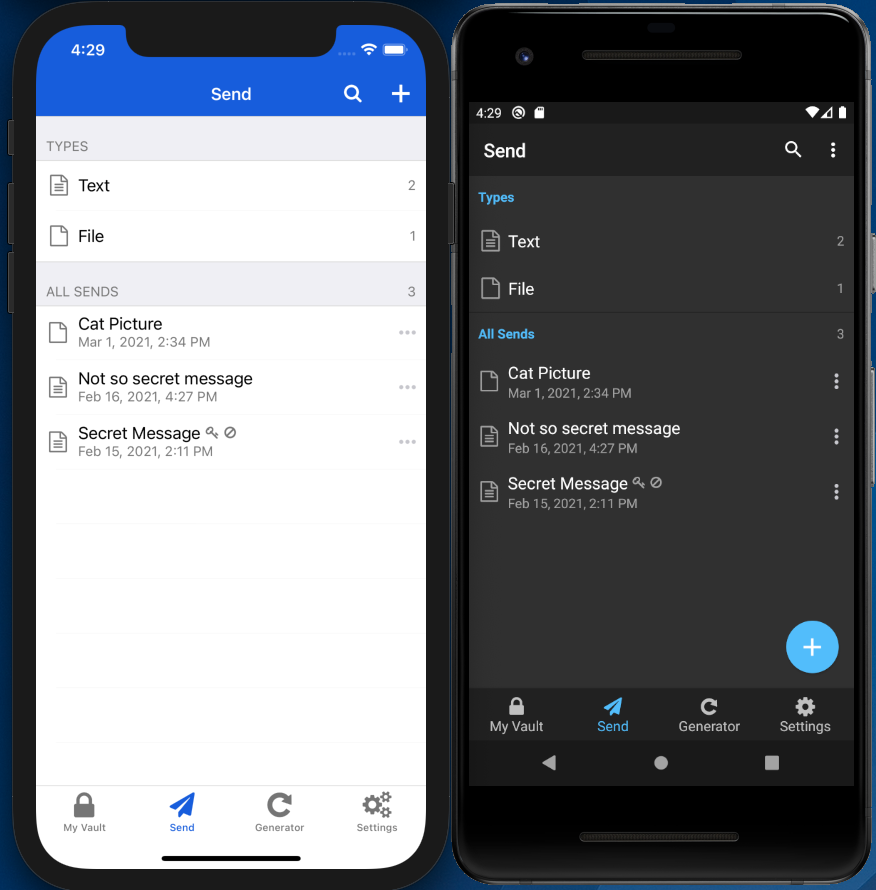
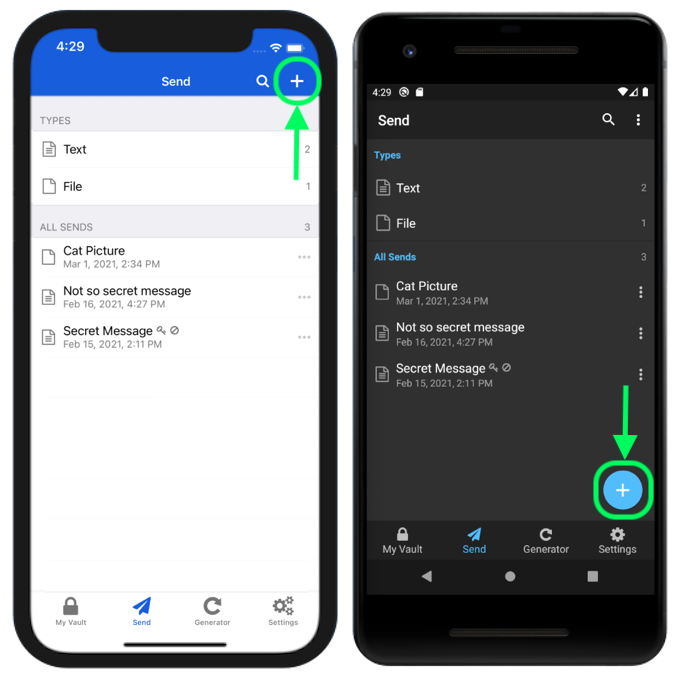
send from browser ext & mobile

Changed region(s): [[0.0, 0.0, 1.0, 1.0], [0.7778, 0.7653, 0.84, 0.8265], [0.6844, 0.7653, 0.7156, 0.8265]]

diff --git a/_articles/send/create-send.md b/_articles/send/create-send.md
@@ -8,7 +8,9 @@ tags: []
 order: 02
 ---
 
-Sends can be created and edited from the [Web Vault](https://vault.bitwarden.com){:target="\_blank"} or any Bitwarden client application. Use one of the following tabs to learn how to create a Send:
+Sends are
+
+Sends can be created and edited from the [Web Vault](https://vault.bitwarden.com){:target="\_blank"} or any Bitwarden client application. Choose the Bitwarden application you want to Send from to get started:
 
 <ul class="nav nav-tabs" id="myTab" role="tablist">
   <li class="nav-item" role="presentation">
@@ -21,10 +23,10 @@ Sends can be created and edited from the [Web Vault](https://vault.bitwarden.com
     <a class="nav-link" id="desktab" href="#desktop" role="tab" aria-controls="desktop" aria-selected="false">Desktop Apps</a>
   </li>
   <li class="nav-item" role="presentation">
-    <a class="nav-link active" id="mobtab" href="#mobile" role="tab" aria-controls="mobile" aria-selected="false">Mobile Apps</a>
+    <a class="nav-link" id="mobtab" href="#mobile" role="tab" aria-controls="mobile" aria-selected="false">Mobile Apps</a>
   </li>
   <li class="nav-item" role="presentation">
-    <a class="nav-link" id="clitab" href="#cli" role="tab" aria-controls="cli" aria-selected="false">CLI</a>
+    <a class="nav-link active" id="clitab" href="#cli" role="tab" aria-controls="cli" aria-selected="false">CLI</a>
   </li>
 </ul>
 <div class="tab-content" id="clientsContent">
@@ -43,9 +45,9 @@ Complete the following steps to create a new Send from the [Web Vault](https://v
    - **Name**: Specify an identifiable, meaningful name for this Send.
    - **What type of Send is this?**: Specify whether this Send will be **Text** or a **File**:
 
-     |Text Sends|File Sends|
-     |----------|----------|
-     |To send text, type or paste the desired text into the input box.<br><br>Checking the **When accessing the Send, hide the text by default** option will require recipients to manually  **Toggle visibility** when they open a Send.|To send a file, select the **Browse...** button and attach the file to send.<br><br>The maximum file size per Send is 100 MB.|
+     |**Text** | Type or paste the desired text into the input box. Toggle the **When accessing the Send, hide the text by default** option to require recipients to [toggle visibility]({% link _articles/send/send-privacy.md %}) when they open a Send.|
+     |**File** | Select the **Choose File** button and browse the file to send. The maximum file size per Send is 100 MB.|
+
 4. Still on the **Create New Send** dialog, configure the following **Options** as desired:
    - **Deletion Date**: The Send will be permanently deleted on the specified date and time (see [Send Ephemerality]({% link _articles/send/terminate-send.md %}) for details).
    - **Expiration Date**: The Send will expire on the specified date and time (see [Send Ephemerality]({% link _articles/send/terminate-send.md %}) for details).
@@ -68,6 +70,34 @@ Complete the following steps to create a new Send from the [Web Vault](https://v
 ### Send from a Browser Extension
 
 Complete the following steps to create a new Send from a Bitwarden Browser Extension:
+
+1. Tap the {% icon fa-paper-plane %} **Send** tab located at the bottom of your screen.
+
+   This view will list all Sends that haven't reached their [deletion date]({% link _articles/send/terminate-send.md %}). Like the {% icon fa-lock %} **My Vault** view, you can filter through your Sends by tapping one of the available **Types**.
+2. To start creating a new Send, tap the {% icon fa-plus %} **Add** icon:
+
+   {% image /send/send-browserext.png Send View in a Browser Extension %}
+
+3. On the Add Send view, specify the following to create the contents of your Send:
+   - **Name**: Specify an identifiable, meaningful name for this Send.
+   - **Type**: Specify whether this Send will be **Text** or a **File**:
+
+     |**Text** | Type or paste the desired text into the input box. Toggle the **When accessing the Send, hide the text by default** option to require recipients to [toggle visibility]({% link _articles/send/send-privacy.md %}) when they open a Send.|
+     |**File** | Select the **Choose File** button and browse the file to send. The maximum file size per Send is 100 MB.|
+
+4. (*Required*) Set a **Deletion Date** for the Send. The Send will be [permanently deleted]({% link _articles/send/terminate-send.md %}) on the specified date and time. Deleted Sends will not be accessible to any old or new recipients, and will be removed from your Send view.
+5. (*Optional*) Configure the following options as desired:
+
+    - **Expiration Date**: The Send will [expire]({% link _articles/send/terminate-send.md %}) on the specified date and time.
+    - **Maximum Access Count**: The Send will [expire]({% link _articles/send/terminate-send.md %}) after the specified access count is reached.
+    - **Password**: Optionally require a [password for users to access]({% link _articles/send/send-privacy.md %}) this Send.
+    - **Notes**: Enter any private notes for this Send, which will only be visible to you.
+    - **Disable this Send so that no one can access it**: Toggle this option to prevent this Send from be accessible through the generated link.
+
+6. Select the **Save** button to finish creating your Send.
+
+Share your Send by tapping the {% icon fa-copy %} **Copy Link** icon and sending the link through email, text, or whichever communication program you prefer.
+
 {% endcapture %}
 {{ browser_extension | markdownify}}
   </div>
@@ -79,21 +109,54 @@ Complete the following steps to create a new Send from a Bitwarden Desktop App:
 {% endcapture %}
 {{ desktop_info | markdownify}}
   </div>
-  <div class="tab-pane show active" id="mobile" role="tabpanel" aria-labelledby="mobtab">
+  <div class="tab-pane" id="mobile" role="tabpanel" aria-labelledby="mobtab">
 {% capture mobile_info %}
 ### Send from a Mobile App
 
-{% image /send/send-mobile.png %}
+Complete the following steps to Send from Bitwarden on your Android or iOS device:
 
-Complete the following steps to create a new Send from a Bitwarden Mobile App:
+1. Tap the {% icon fa-paper-plane %} **Send** tab located at the bottom of your screen.
+
+   This view will list all Sends that haven't reached their [deletion date]({% link _articles/send/terminate-send.md %}). Like the {% icon fa-lock %} **My Vault** view, you can filter through your Sends by tapping one of the available **Types**.
+2. To start creating a new Send, tap the {% icon fa-plus %} **Add** icon:
+
+   {% image /send/send-mobile.png Send View on iOS and Android%}
+
+3. On the Add Send view, specify the following to create the contents of your Send:
+
+   - **Name**: Specify an identifiable, meaningful name for this Send.
+   - **Type**: Specify whether this Send will be **Text** or a **File**:
+
+     |**Text** | Type or paste the desired text into the input box. Toggle the **When accessing the Send, hide the text by default** option to require recipients to [toggle visibility]({% link _articles/send/send-privacy.md %}) when they open a Send.|
+     |**File** | Tap the **Choose File** button and browse the file to send. The maximum file size per Send is 100 MB.|
+
+4. (*Required*) Set a **Deletion Date** for the Send. The Send will be [permanently deleted]({% link _articles/send/terminate-send.md %}) on the specified date and time. Deleted Sends will not be accessible to any old or new recipients, and will be removed from your Send view.
+5. (*Optional*) Configure the following options as desired:
+
+   - **Expiration Date**: The Send will [expire]({% link _articles/send/terminate-send.md %}) on the specified date and time.
+   - **Maximum Access Count**: The Send will [expire]({% link _articles/send/terminate-send.md %}) after the specified access count is reached.
+   - **Password**: Optionally require a [password for users to access]({% link _articles/send/send-privacy.md %}) this Send.
+   - **Notes**: Enter any private notes for this Send, which will only be visible to you.
+   - **Disable this Send so that no one can access it**: Toggle this option to prevent this Send from be accessible through the generated link.
+   - **Share this Send upon Save**: Toggle this option to automatically open your device's Share menu when you save the Send.
+
+6. Tap the **Save** button to finish creating your Send.
+
+If you didn't toggle the **Share this Send upon Save** option, share your Send by tapping the menu icon ( {% icon fa-ellipsis-v %} or {% icon fa-ellipsis-h%} ) and selecting **Share Link** to open your device's Share menu or **Copy Link** to copy the generated link to your clipboard.
+
 {% endcapture %}
 {{ mobile_info | markdownify}}
   </div>
-  <div class="tab-pane" id="cli" role="tabpanel" aria-labelledby="cliab">
+  <div class="tab-pane show active" id="cli" role="tabpanel" aria-labelledby="cliab">
 {% capture cli_info %}
 ### Send from the CLI
 
-Complete the following steps to create a new Send from the Bitwarden CLI:
+Bitwarden Send from the CLI is built around two commands: `send` and `receive`.
+
+
+
+
+
 {% endcapture %}
 {{ cli_info | markdownify}}
   </div>
